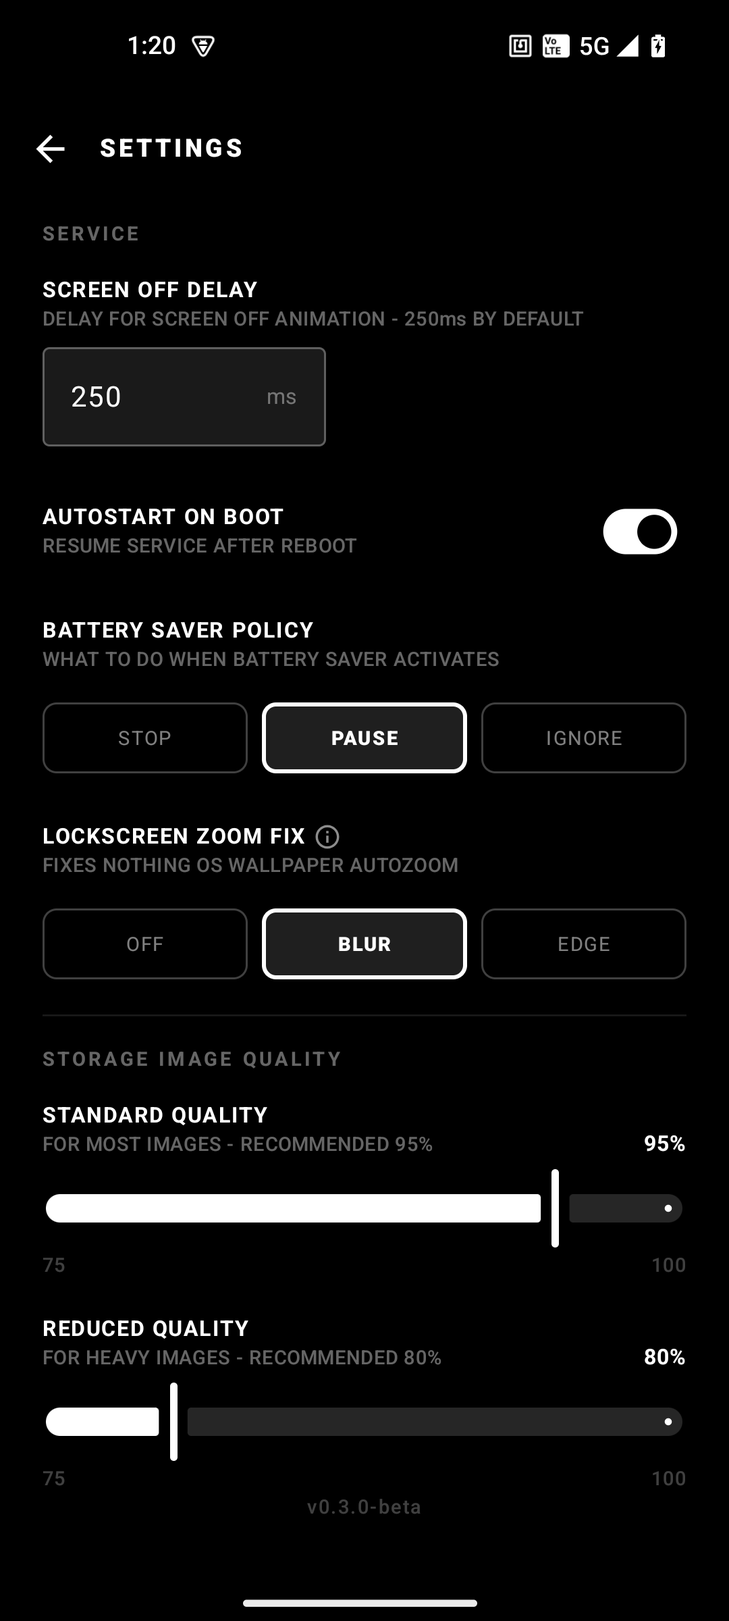
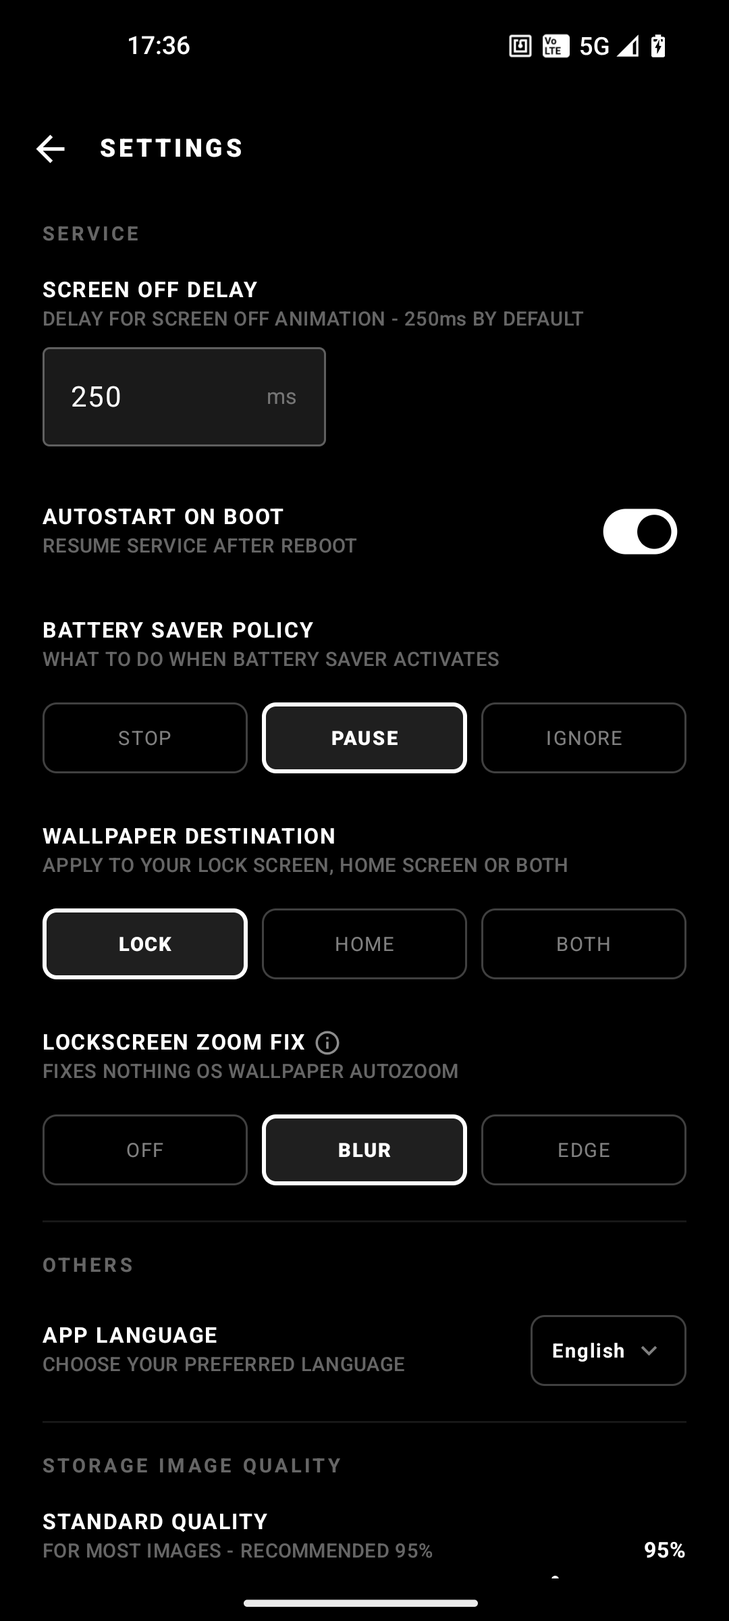
v0.3.2 - Wallpaper destination targeting, Spanish support, and reactive architecture stabilization

diff --git a/docs/ARCHITECTURE.md b/docs/ARCHITECTURE.md
@@ -2,17 +2,17 @@
 
 ## Overview
 
-**Version:** v0.3.1-beta
+**Version:** v0.3.2-beta
 
 The app architecture is a pragmatic Android 13+ implementation centered on seven pieces:
 
 1. A **single-activity Compose UI** with Navigation Compose routes for the main dashboard, collections, collection image gallery, wallpaper editor, and settings.
 2. **Hilt dependency injection** for app-scoped services, Room access, ViewModels, receivers, and the foreground service.
 3. A **data layer** with Room and `WallpaperRepository` for collections/rotation, plus `AppDataStore` for settings flows.
-4. A **service state manager** (`ServiceStateManager` + `ServiceLifecycleTracker`) that resolves and publishes service state.
+4. A **service state manager** (`ServiceStateManager` + `ServiceLifecycleTracker`) that resolves and publishes a single reactive service state.
 5. A **foreground service + broadcast receivers** layer that reacts to screen-off, Battery Saver, and boot events.
-6. A lightweight **image-processing pipeline** that prepares the next lock-screen wallpaper ahead of time, including lockscreen zoom fix padding and default wallpaper application.
-7. A **per-image editing pipeline** that renders cropped/zoomed wallpapers from the original source and persists edit parameters in Room.
+6. A lightweight **image-processing pipeline** that prepares the next wallpaper ahead of time, including lockscreen zoom fix padding and configurable-destination application.
+7. A **per-image editing pipeline** that renders cropped/zoomed wallpapers on-the-fly from the original source, using edit parameters persisted in Room.
 
 ---
 
@@ -23,36 +23,38 @@ com.ninecsdev.wallpaperchanger/
 |-- WallpaperApplication.kt          # @HiltAndroidApp application entry point
 |-- data/
 |   |-- local/
-|   |   |-- AppDatabase.kt           # Room database (v3) and migrations
+|   |   |-- AppDatabase.kt           # Room database (v4) and migrations
 |   |   |-- AppDataStore.kt          # Preferences DataStore wrapper for app flags/settings
 |   |   |-- Converters.kt            # Room converters for Uri and enums
+|   |   |-- DeviceDefaults.kt        # Per-device (Build.DEVICE) screen-off delay defaults
 |   |   `-- WallpaperDao.kt          # Collection and image queries
-|   |-- ServiceStateManager.kt       # Service-state resolution for UI/tile consumers
-|   `-- WallpaperRepository.kt       # Collection/image CRUD and rotation coordination
+|   |-- ServiceLifecycleTracker.kt   # Tracks WallpaperService liveness for state resolution
+|   |-- ServiceStateManager.kt       # Single derived service-state flow for UI/tile consumers
+|   `-- WallpaperRepository.kt       # Collection/image CRUD, rotation coordination, folder-sync diffing
 |-- di/
 |   `-- AppModule.kt                 # Hilt providers for Room database and DAO
 |-- logic/
-|   |-- BufferManager.kt             # Downsample, crop, zoom fix, and atomically write next wallpaper buffer
+|   |-- BufferManager.kt             # Downsample, crop, on-the-fly edit transform, zoom fix, atomic buffer write
 |   |-- ImageInternalizer.kt         # Copy manual selections into app-private storage
 |   |-- ImageProcessingUtils.kt      # Shared decode, resize, and compression helpers
-|   |-- WallpaperApplier.kt          # Applies buffer/default wallpapers
-|   |-- RotationEngine.kt            # Shuffle-cycle state machine and buffer refill orchestration
-|   `-- WallpaperEditRenderer.kt     # Renders edited wallpapers from original source with zoom/offset transforms
+|   |-- WallpaperApplier.kt          # Applies buffer/default wallpapers to the configured destination(s)
+|   `-- RotationEngine.kt            # Reactive shuffle-cycle state machine and buffer refill orchestration
 |-- model/
-|   |-- BatterySaverPolicy.kt        # STOP | PAUSE | IGNORE
-|   |-- CollectionSortOrder.kt       # NAME | LAST_USED | DATE_CREATED
-|   |-- CollectionType.kt            # FOLDER | MANUAL
-|   |-- CropRule.kt                  # CENTER | LEFT | RIGHT | FIT
-|   |-- LockscreenZoomFix.kt         # OFF | BLURRED | EDGE
-|   |-- RotationFrequency.kt         # PER_LOCK | HOURLY | PER_DAY
-|   |-- ServiceState.kt              # Running, Loading, Stopped, Paused, Disabled states
+|   |-- ServiceState.kt              # Running, Loading, Stopping, Stopped, Paused, Disabled* states
 |   |-- WallpaperCollection.kt       # Room entity for collection metadata
-|   `-- WallpaperImage.kt            # Room entity for images
+|   |-- WallpaperImage.kt            # Room entity for images; embeds EditParams
+|   `-- enums/
+|       |-- BatterySaverPolicy.kt    # STOP | PAUSE | IGNORE
+|       |-- CollectionSortOrder.kt   # NAME | LAST_USED | DATE_CREATED
+|       |-- CollectionType.kt        # FOLDER | MANUAL
+|       |-- CropRule.kt              # CENTER | LEFT | RIGHT | FIT
+|       |-- LockscreenZoomFix.kt     # OFF | BLURRED | EDGE
+|       |-- RotationFrequency.kt     # PER_LOCK | HOURLY | PER_DAY
+|       `-- WallpaperDestination.kt  # LOCK | HOME | BOTH
 |-- service/
 |   |-- BootReceiver.kt              # Restarts the service after reboot when appropriate
-|   |-- NotificationHelper.kt        # Builds and updates foreground-service notifications
+|   |-- NotificationHelper.kt        # Builds/updates the foreground notification
 |   |-- ScreenOffReceiver.kt         # Applies the prepared wallpaper on screen-off
-|   |-- ServiceLifecycleTracker.kt   # Tracks WallpaperService liveness for state resolution
 |   |-- WallpaperService.kt          # Foreground engine and notification owner
 |   `-- WallpaperTileService.kt      # Quick Settings tile entry point
 `-- ui/
@@ -62,8 +64,8 @@ com.ninecsdev.wallpaperchanger/
     |-- collectionscreen/            # Collection list, create/edit/delete flows, sorting, previews
     |-- collectionimagescreen/       # Collection wallpaper grid, selection mode, preview overlay, edited badge
     |-- walleditscreen/              # Full-screen wallpaper editor with gesture controls and precision sliders
-    |-- settingsscreen/              # Service, boot, battery, zoom fix, and image-quality settings
-    |-- components/                  # Shared Compose components (dialogs, buttons, etc.)
+    |-- settingsscreen/              # Service, boot, battery, destination, zoom fix, language, and quality settings
+    |-- components/                  # Shared Compose components (dialogs, buttons, safeClick debouncing, etc.)
     `-- theme/                       # App palette and Compose theme
 ```
 
@@ -78,6 +80,7 @@ com.ninecsdev.wallpaperchanger/
 - `MainViewModel`, `CollectionViewModel`, `CollectionImageViewModel`, `WallpaperEditViewModel`, and `SettingsViewModel` are plain `ViewModel` classes annotated with `@HiltViewModel`.
 - Compose state is collected through `collectAsStateWithLifecycle()` inside the navigation graph.
 - Settings and service state are injected directly through `AppDataStore` and `ServiceStateManager` instead of via the repository.
+- Navigation buttons on the main screen are protected by a `safeClick` debouncing utility so rapid repeated taps can't stack duplicate screens on the back stack.
 
 ### 2. Collection Creation
 
@@ -85,6 +88,7 @@ com.ninecsdev.wallpaperchanger/
 - **Manual collections** internalize selected photos into `files/internal_wallpapers` so they remain accessible even if the external picker URI becomes unavailable later.
 - Manual-image internalization uses the configured high/low compression quality values, choosing the lower quality for larger source files.
 - The first collection created automatically becomes active.
+- Folder sync diffs the current disk snapshot against Room in Kotlin (not SQL) and applies the stale-delete/new-insert in **chunks** (900 rows) inside a single `withTransaction` block, so very large folders can't hit SQLite's per-statement variable-binding limit and a scan failure can no longer wipe out an existing collection.
 
 ### 3. Collection Image Gallery
 
@@ -96,6 +100,7 @@ com.ninecsdev.wallpaperchanger/
 - A **FAB** allows adding new wallpapers to the collection via the system photo picker.
 - An **empty state** is shown when a collection has no wallpapers, nudging the user to add images.
 - Wallpapers with custom edits display an **edited badge** (pencil icon) on their thumbnail and in the preview overlay.
+- The grid, counts, and previews update live as wallpapers are added or removed, without needing to reopen the screen.
 
 ### 4. Wallpaper Editor
 
@@ -104,27 +109,26 @@ com.ninecsdev.wallpaperchanger/
 - The full-screen canvas shows the wallpaper with **pinch-to-zoom and drag gestures** for interactive positioning.
 - A collapsible bottom panel (`ControlsPanel`) provides **precision sliders** for zoom (0.5x–5x), X offset (-1..1), and Y offset (-1..1).
 - The top bar includes **undo/reset** actions and a **fit-to-height** shortcut for quick framing.
-- On save, `WallpaperEditRenderer` always renders from the **original** image URI to avoid quality degradation across repeated edits. The rendered result is saved as a high-quality WebP in `files/edited_wallpapers/`.
-- Edit parameters (`editZoom`, `editOffsetX`, `editOffsetY`) and the `editedUri` are persisted in Room via a database migration (v2→v3).
-- Resetting an edit deletes the rendered file and clears all edit parameters, reverting to the original image.
-- After saving or resetting, the rotation engine is reloaded and the disk buffer refilled if the wallpaper belongs to the active collection.
+- Edit parameters (`zoom`, `offsetX`, `offsetY`) are bundled into a single `@Embedded EditParams` value class on `WallpaperImage` instead of three separate nullable fields, encoding the "all present or all null" invariant in the type system. There is **no separate rendered edited-image file** — `BufferManager` applies the transform on-the-fly (bypassing the collection's `CropRule` whenever edit params are present) each time it prepares the next wallpaper, always reading from the **original** image URI to avoid cumulative quality degradation.
+- Resetting an edit clears the embedded edit params, reverting to the collection's default crop behavior.
+- After saving or resetting, the rotation engine reacts reactively (see below) and refills the disk buffer if the wallpaper belongs to the active collection.
 
 ### 5. Service Startup
 
-- `WallpaperService` enters the foreground with a low-importance notification.
+- `WallpaperService` enters the foreground with a low-importance notification; tapping the notification opens `MainActivity`.
 - Hilt injects the repository, rotation engine, and service state helpers into the service.
-- `ServiceLifecycleTracker` marks the service alive/dead, and `ServiceStateManager` persists and broadcasts state.
-- The repository loads the active collection into an in-memory shuffled list called the magazine.
-- `BufferManager` prepares the next wallpaper by preferring the `editedUri` (if available), downsampling, applying the crop rule, optionally adding lockscreen zoom fix padding, and atomically renaming a temporary WebP file into the active buffer.
+- `ServiceLifecycleTracker` (in `data/`) marks the service alive/dead, and `ServiceStateManager` resolves and exposes a single `serviceState: StateFlow<ServiceState>`.
+- `RotationEngine.start(scope)` subscribes to `WallpaperRepository.activeCollectionImagesFlow()` and builds the in-memory shuffled "magazine" reactively — the repository no longer needs to manually poke the engine after every database write.
+- `BufferManager` prepares the next wallpaper by applying the on-the-fly edit transform (if present) or the collection's crop rule, downsampling, optionally adding lockscreen zoom fix padding, and atomically renaming a temporary WebP file into the active buffer.
 
 ### 6. Screen-Off Rotation
 
 - `ScreenOffReceiver` listens for `Intent.ACTION_SCREEN_OFF`.
 - It uses an `AtomicBoolean` guard so repeated power-button taps cannot trigger overlapping work.
 - The receiver enforces the collection's `RotationFrequency` before applying a change.
-- `WallpaperApplier` streams the prepared buffer to the lock screen; `RotationEngine` retries failed images and can fall back from edited to original sources.
+- `WallpaperApplier` streams the prepared buffer to whichever surface(s) the `WallpaperDestination` setting targets — lock screen, home screen, or both — via `WallpaperManager.setStream()`; `RotationEngine` retries failed images and can fall back from edited to original sources.
 - If the buffer is applied successfully, the repository records `lastWallpaperChangeAt` and prepares the next wallpaper immediately.
-- The configurable screen-off delay is persisted in `AppDataStore` and read directly from DataStore.
+- The configurable screen-off delay is persisted in `AppDataStore` and read directly from DataStore. New installs default to a **device-appropriate** value (`DeviceDefaults`, keyed by `Build.DEVICE` codename) instead of one fixed delay for every phone, fixing sluggish/delayed transitions reported on some models.
 
 ### 7. Battery Saver Behavior
 
@@ -133,19 +137,21 @@ com.ninecsdev.wallpaperchanger/
   - `STOP`: stop the service entirely.
   - `PAUSE`: unregister the screen-off receiver, keep the service alive, and resume automatically when Battery Saver ends.
   - `IGNORE`: keep cycling normally.
-- Notifications and repository service state are updated after each transition.
+- Notifications and resolved service state update after each transition.
 
 ### 8. Boot Restore and Tile Control
 
 - `BootReceiver` checks whether the app was previously marked as running and whether boot-start is enabled.
-- `WallpaperTileService` mirrors service state in Quick Settings and can start or stop the foreground service directly.
+- `WallpaperTileService` mirrors the single resolved `serviceState` in Quick Settings and can start or stop the foreground service directly, including stopping a service that's currently paused by Battery Saver.
 
 ### 9. Settings
 
-- `SettingsScreen` exposes screen-off delay, start-on-boot, Battery Saver policy, lockscreen zoom fix, and manual-image compression quality controls.
+- `SettingsScreen` exposes screen-off delay, start-on-boot, Battery Saver policy, wallpaper destination, lockscreen zoom fix, app language, and manual-image compression quality controls.
 - Settings are stored in Preferences DataStore through `AppDataStore` and surfaced by `SettingsViewModel` as a single `SettingsUiState`.
 - DataStore reads use a shared safe flow that falls back to defaults on IO/corruption errors.
+- The **wallpaper destination** setting (LOCK / HOME / BOTH) determines which `WallpaperManager` flag(s) `WallpaperApplier` targets when streaming the buffer or the default wallpaper.
 - The **lockscreen zoom fix** setting (OFF / BLURRED / EDGE) is applied by `BufferManager` during wallpaper preparation, adding padding around the rendered image so the OS zoom consumes padding instead of cropping the wallpaper.
+- The **language** setting is backed by a per-app locale (`AndroidManifest` `locales_config.xml` lists `en`/`es`); `LanguageSelector` lets the user override the system locale from inside the app, and the choice is persisted via `AppDataStore`.
 
 ---
 
@@ -157,12 +163,11 @@ com.ninecsdev.wallpaperchanger/
 |---|---|
 | Collections and wallpapers | Room |
 | Active collection metadata | Room fields on `WallpaperCollection` |
-| Per-image edit parameters | Room fields on `WallpaperImage` (`editedUri`, `editZoom`, `editOffsetX`, `editOffsetY`) |
+| Per-image edit parameters | Single `@Embedded EditParams?` (`zoom`, `offsetX`, `offsetY`) on `WallpaperImage` |
 | Default wallpaper, revert toggle, boot toggle, soft running flag | Preferences DataStore via `AppDataStore` |
-| Screen-off delay, compression quality, Battery Saver policy, lockscreen zoom fix | Preferences DataStore via `AppDataStore` |
+| Screen-off delay, compression quality, Battery Saver policy, lockscreen zoom fix, wallpaper destination, language | Preferences DataStore via `AppDataStore` |
 | Prepared next wallpaper | WebP file in `cacheDir` |
 | Manual collection source images | App-private files in `files/internal_wallpapers` |
-| Rendered edited wallpapers | App-private files in `files/edited_wallpapers` |
 
 ### UI State
 
@@ -171,7 +176,7 @@ com.ninecsdev.wallpaperchanger/
 | Main dashboard | `MainViewModel` + `MainUiState` | Combines repository flows reactively; navigation is handled by `NavController` |
 | Collection screen | `CollectionViewModel` + `CollectionUiState` | Handles preview loading, sorting, modal state, delete confirmation, and pending picker results |
 | Collection images | `CollectionImageViewModel` + `CollectionImageUiState` | Observes images reactively, manages selection mode, preview state, and add/delete operations |
-| Wallpaper editor | `WallpaperEditViewModel` + `WallpaperEditUiState` | Loads wallpaper by ID, coordinates save/reset with renderer and repository |
+| Wallpaper editor | `WallpaperEditViewModel` + `WallpaperEditUiState` | Loads wallpaper by ID, coordinates save/reset with the repository |
 | Settings screen | `SettingsViewModel` + `SettingsUiState` | Combines DataStore-backed setting flows and app version metadata |
 
 ### Service State Model
@@ -180,12 +185,15 @@ com.ninecsdev.wallpaperchanger/
 
 - `Running`
 - `Loading`
+- `Stopping`
 - `Stopped`
 - `Paused`
 - `DisabledPowerSave`
 - `DisabledNoCollection`
 
-`ServiceStateManager` publishes both a `serviceStateFlow` and a lightweight `serviceEvent` `SharedFlow` so the UI and tile can refresh when service-side state changes. It resolves state using the DataStore running flag, live service liveness from `ServiceLifecycleTracker`, power-save mode, and active-collection availability.
+`Stopping` exists specifically to prevent a stop→start race condition (starting the service while a previous instance was still stopping could otherwise leave the app in a permanent "Initializing" state).
+
+`ServiceStateManager` publishes a **single derived** `serviceState: StateFlow<ServiceState>`, built via `combine(...)` over the raw in-memory lifecycle intent, the persisted running flag, live service liveness (`ServiceLifecycleTracker`), power-save mode, and active-collection availability, resolved by a pure `resolve()` function. This replaced three overlapping mechanisms from earlier versions (a raw state flow, a "something changed" ping `SharedFlow`, and a side-effecting suspend getter) that required every consumer to poll correctly; the app UI, `WallpaperTileService`, and the main dashboard all now just collect the one flow.
 
 ---
 
@@ -194,38 +202,54 @@ com.ninecsdev.wallpaperchanger/
 | Concern | Current approach | Why it exists |
 |---|---|---|
 | Dependency wiring | Hilt + constructor injection for app services and ViewModels | Removes manual startup initialization and improves testability |
-| Service/UI synchronization | `ServiceStateManager` with `SharedFlow<Unit>` refresh events | Centralizes state resolution without local broadcasts |
-| Rotation engine | In-memory shuffled magazine + pointer | Guarantees full-cycle playback before reshuffle |
-| Folder sync | DAO diffing against the current disk snapshot | Prevents duplicate inserts and preserves manual additions |
-| Wallpaper application | `WallpaperApplier` streams the buffer or default image into `WallpaperManager.setStream()` | Avoids decoding a full bitmap at apply time and keeps zoom-fix consistent |
+| Service/UI synchronization | Single derived `ServiceStateManager.serviceState` flow | Centralizes state resolution without polling contracts or manual refresh triggers |
+| Rotation engine | Reactive in-memory shuffled magazine, driven by `WallpaperRepository.activeCollectionImagesFlow()` | Guarantees full-cycle playback before reshuffle and removes the DB→engine poke, closing races around concurrent screen-off events and edits |
+| Folder sync | Diffed in Kotlin against the current disk snapshot, applied in chunked transactions | Prevents duplicate inserts, preserves manual additions, and avoids SQLite's bind-variable limit on very large folders |
+| Wallpaper application | `WallpaperApplier` streams the buffer or default image into `WallpaperManager.setStream()` for the configured destination(s) | Avoids decoding a full bitmap at apply time and keeps zoom-fix and destination targeting consistent |
 | Buffer writes | Temp file then rename | Prevents half-written wallpaper buffers |
-| Buffer source selection | Prefer `editedUri` over original `uri` with fallback | Reverts to originals when edited sources fail to load |
 | Manual image storage | Internal WebP copies with configurable compression | Keeps user-picked images available and controls storage size |
-| Edited image storage | Separate `files/edited_wallpapers` directory with high-quality WebP | Keeps edits independent from source images, avoids quality loss |
-| Edit rendering | Always render from original URI | Prevents cumulative quality degradation across repeated edits |
+| Edit persistence | Single embedded `EditParams` value, always rendered on-the-fly from the original URI | Encodes the all-or-nothing invariant in the type system and prevents cumulative quality degradation across repeated edits |
 | Lockscreen zoom fix | Padding with blurred or edge-stretched borders | Counters Nothing OS auto-zoom without scaling the wallpaper down |
+| Screen-off delay defaults | Per-device default keyed by `Build.DEVICE` codename (`DeviceDefaults`) | A single fixed delay felt sluggish on some models; codenames are stable across OS updates/regions, unlike `Build.MODEL` |
 | Failure handling | Retry failed images, then purge after repeated failures | Keeps the service alive even with invalid sources |
-| Concurrency | Coroutines + `SupervisorJob` + `AtomicBoolean` guard | Isolates failures and avoids duplicate screen-off work |
+| Concurrency | Coroutines + `SupervisorJob` + a single `Mutex` guarding rotation state + `AtomicBoolean` screen-off guard | Isolates failures and prevents a screen-off refill and a reactive reload from interleaving |
 | Gallery navigation | `SavedStateHandle` for route arguments | Wallpaper ID and collection ID pass safely through navigation |
+| UI click handling | `safeClick` debouncing utility on navigation-triggering buttons | Prevents duplicate stacked screens from rapid repeated taps |
 
 ---
 
-## What v0.3.1-beta Adds or Stabilizes
+## What v0.3.2-beta Adds or Stabilizes
 
-- **ServiceStateManager + ServiceLifecycleTracker** split service state from the repository and make liveness explicit for UI/tile consumers.
-- **AppDataStore safe reads** add a shared catch fallback for IO/corruption, defaulting to safe values.
-- **WallpaperApplier** centralizes buffer/default wallpaper application so the lockscreen zoom fix applies consistently.
-- **Rotation resiliency** adds edited-source fallback, retry counts before purge, and internal file cleanup on failures.
-- **Wallpaper editor upgrades** add undo/change tracking, fit-to-height framing, sub-1x zoom, and refined pan constraints.
-- **Delete confirmation overlay** is reused for collection and image deletion, adding confirmation to batch wallpaper removal.
+- **Wallpaper destination setting** lets the rotation target the lock screen, home screen, or both, instead of being lock-screen-only.
+- **Language selection** adds a full Spanish translation alongside English, with an in-app override independent of the system locale.
+- **Device-appropriate screen-off delay defaults** replace one fixed delay for every phone.
+- **Click debouncing** (`safeClick`) prevents duplicate stacked screens from rapid repeated taps on gallery/settings navigation.
+- **Reactive service state** (`ServiceStateManager.serviceState`) fixes a stuck "Setup needed" status after deleting and recreating a list, and replaces three overlapping state-sync mechanisms with one derived flow.
+- **Reactive `RotationEngine`** observes collection changes through Room instead of being manually poked after every database write, closing races around concurrent screen-off events and edits.
+- **Chunked, transactional folder sync** fixes a data-loss bug where a transient scan error could wipe out an entire folder-based collection, and keeps large folders under SQLite's bind-variable limit.
+- **Stop→start race fix** (`Stopping` state) prevents the service from getting stuck in "Initializing" when started while a previous instance was still stopping.
+- **Bounded default-wallpaper decode** avoids an out-of-memory risk when restoring a very large default wallpaper image.
+- **Consolidated per-image edit model** (`EditParams`) replaces three separate nullable fields with one embedded value.
+- **Notification tap-to-open** makes the persistent notification open the app instead of doing nothing.
 
-Previous v0.3.0-beta baseline remains:
-- Navigation Compose is the active baseline with explicit route constants, transitions, and edge-swipe navigation behavior.
-- Collection image gallery and wallpaper editor are part of the core navigation graph and use lifecycle-aware collection.
-- Hilt provides application-level dependencies, plain ViewModels, receivers, and services.
-- Room v3 persists per-image edit data (`editedUri`, `editZoom`, `editOffsetX`, `editOffsetY`).
-- Preferences DataStore persists app flags and settings with one-time migration from legacy SharedPreferences.
-- Rotation and image-processing responsibilities are split into dedicated helpers (`RotationEngine`, `ImageProcessingUtils`, `BufferManager`, and `NotificationHelper`).
+Previous v0.3.1-beta baseline remains: Navigation Compose with five routes, Hilt-provided app-level dependencies and plain ViewModels, on-the-fly edit rendering, Room-backed collections/images, and DataStore-backed settings.
+
+---
+
+## Tech Stack
+
+| Category      | Library / API                       |
+|---------------|--------------------------------------|
+| Language      | Kotlin 2.3 (JVM 17)                  |
+| UI            | Jetpack Compose + Material 3         |
+| Image loading | Coil 2.7                             |
+| Database      | Room 2.8 (KSP)                       |
+| Preferences   | Jetpack Preferences DataStore        |
+| DI            | Hilt                                 |
+| Async         | Kotlin Coroutines + `SupervisorJob`  |
+| Lifecycle     | ViewModel + StateFlow / SharedFlow   |
+| Min SDK       | 33 (Android 13)                      |
+| Target SDK    | 36 (Android 16)                      |
 
 ---
 
@@ -235,6 +259,6 @@ These are intentional current limitations, not documentation mistakes:
 
 - Navigation still uses string route constants rather than typed routes.
 - The repository remains a concrete app-scoped coordinator rather than an interface-backed domain boundary.
-- Settings directly accesed from the `AppDataStore` rather than a use-case or repository.
-- File system scanning logic lives in the repository rather than a dedicated collaborator.
+- Settings are read directly from `AppDataStore` rather than through a use-case or repository.
 - The collection image screen's `BackHandler` layering for selection/preview/navigation could be improved.
+- There is no automated test coverage beyond the default template tests; DataStore defaults/migration, `BatterySaverPolicy` transitions, boot restore, rotation frequency gating, and the wallpaper edit save/reset lifecycle are documented backlog items, not something already in place.

diff --git a/README.md b/README.md
@@ -4,14 +4,14 @@
   <h1>Wallpaper Changer for Nothing OS</h1>
 
   <p align="center">
-    <img src="https://img.shields.io/badge/Status-v0.3.1--beta-blue.svg" alt="Status">
+    <img src="https://img.shields.io/badge/Status-v0.3.2--beta-blue.svg" alt="Status">
     <img src="https://img.shields.io/badge/Android-13%2B-green.svg" alt="Android 13+">
-    <img src="https://img.shields.io/badge/Kotlin-2.1-purple.svg" alt="Kotlin">
+    <img src="https://img.shields.io/badge/Kotlin-2.3-purple.svg" alt="Kotlin">
     <img src="https://img.shields.io/badge/Jetpack%20Compose-Material%203-teal.svg" alt="Compose">
   </p>
 
   <p>
-    <b>A lightweight lock screen wallpaper changer.<br>Built by a Nothing user, for Nothing users.</b>
+    <b>A lightweight wallpaper changer for your lock screen, home screen, or both.<br>Built by a Nothing user, for Nothing users.</b>
   </p>
   <p>
     <sub>Disclaimer: This is an independent, community-made tool. Not affiliated with or endorsed by Nothing Technology Limited.</sub>
@@ -31,6 +31,8 @@ There weren't many solutions on the Play Store and the ones I found were either 
 ##  Key Features
 
 - **Instant Wallpaper Swap:** Each wallpaper is pre-processed and ready to go before you lock your phone resulting in no lag or  no loading screens. *(Achieved via a disk-buffered pipeline: downsample → crop → WebP.)*
+- **Configurable Wallpaper Destination:** Apply the rotation to the lock screen, the home screen, or both.
+- **Language Selection:** Switch the app's language from Settings. English and Spanish are fully supported today.
 - **Wallpaper Collections/Lists:** Organize wallpapers in two ways:
     - **Folder-based:** Point the app at a folder on your device and it picks up all the images inside, with re-sync on demand.
     - **Manual:** Hand-pick individual photos; they're safely copied into the app's private storage so they're always available.
@@ -41,7 +43,7 @@ There weren't many solutions on the Play Store and the ones I found were either 
 - **Flexible Cropping:** Choose how images fit your screen per collection: center, left-aligned, right-aligned, or fit-to-screen.
 - **Lockscreen Zoom Fix:** Counteracts the auto-zoom some phones (especially Nothing OS) apply to lock screen wallpapers. Choose between blurred-edge or sharp-edge padding modes, or turn it off. Applied to both rotating and default wallpapers.
 - **Rotation Timer Modes:** Configure each collection to rotate on every lock, every 1 hour, or once per day.
-- **Settings Screen:** Tune the screen-off debounce delay, boot behavior, manual-image compression quality, Battery Saver behavior, and lockscreen zoom fix from inside the app.
+- **Settings Screen:** Tune the screen-off debounce delay (with a device-appropriate default out of the box), boot behavior, wallpaper destination, manual-image compression quality, Battery Saver behavior, lockscreen zoom fix, and app language from inside the app.
 - **Quick Settings Tile:** Start, stop, or check status right from the notification shade letting you control it while doing something else.
 - **Default Wallpaper Fallback:** Pick a fallback lock screen image that's automatically restored when the service stops or pauses.
 - **Survives Reboots:** If the service was running before a restart, it picks right back up.
@@ -111,7 +113,7 @@ No. The app doesn't run on a timer or poll in the background, it simply waits fo
 <details>
 <summary><b>Why is there a permanent notification?</b></summary>
 
-Android requires any app doing background work to show a notification, it's a system rule, not a design choice. The notification is as minimal as possible and lets you see the service is running and which collection is active.
+Android requires any app doing background work to show a notification, it's a system rule, not a design choice. The notification is as minimal as possible, lets you see the service is running and which collection is active, and tapping it opens the app.
 </details>
 
 <details>
@@ -129,7 +131,7 @@ While in Nothing OS this shouldn't happen, other phone manufacturers (Xiaomi, Sa
 <details>
 <summary><b>Does this change my home screen wallpaper too?</b></summary>
 
-Currently, the app only changes the **lock screen** wallpaper. Home screen support may be added in a future update.
+It can. Go to Settings and choose whether the rotation applies to the lock screen, the home screen, or both. Lock screen only is the default.
 </details>
 
 <details>
@@ -178,8 +180,8 @@ The current implementation uses Hilt-injected app-level dependencies, plain `@Hi
 1. **User creates a collection** (folder or manual) → images are stored in Room.
 2. **User browses and edits wallpapers** → the collection image gallery shows all images in a grid; tapping opens a full-screen preview with swipe-through; the per-image editor lets you crop and position with gestures and precision sliders.
 3. **User presses Start** → `WallpaperService` starts as a foreground service, loads & shuffles the active collection into an in-memory magazine, and pre-processes the first wallpaper into a WebP disk buffer. Edited images are preferred over originals.
-4. **Screen turns off** → `ScreenOffReceiver` fires, streams the buffer to `WallpaperManager.setStream()` on the lock screen flag, then triggers the repository to prepare the next image.
-5. **Battery Saver ON** -> The configured policy is applied: stop the service, pause by unregistering the receiver and auto-resume later, or ignore Battery Saver.
+4. **Screen turns off** → `ScreenOffReceiver` fires, streams the buffer to `WallpaperManager.setStream()` on whichever surface(s) the wallpaper destination setting targets (lock screen, home screen, or both), then triggers the repository to prepare the next image.
+5. **Battery Saver ON** → The configured policy is applied: stop the service, pause by unregistering the receiver and auto-resume later, or ignore Battery Saver.
 6. **User presses Stop** → Service stops; if "revert to default" is enabled, the saved default wallpaper is restored (including lockscreen zoom fix if enabled).
 7. **Device reboots** → `BootReceiver` checks persisted state and restarts the service if it was previously active.
 
@@ -189,10 +191,10 @@ The current implementation uses Hilt-injected app-level dependencies, plain `@Hi
 
 | Category      | Library / API                       |
 |---------------|-------------------------------------|
-| Language      | Kotlin 2.1 (JVM 17)                 |
+| Language      | Kotlin 2.3 (JVM 17)                 |
 | UI            | Jetpack Compose + Material 3        |
 | Image loading | Coil 2.7                            |
-| Database      | Room 2.7 (KSP)                      |
+| Database      | Room 2.8 (KSP)                      |
 | Preferences   | Jetpack Preferences DataStore       |
 | DI            | Hilt                                |
 | Async         | Kotlin Coroutines + `SupervisorJob` |
@@ -224,9 +226,9 @@ This is my first native Android project, built while actively learning about bac
 
 ## Status
 
-**v0.3.1-beta** focuses on polish and resilience.
+**v0.3.2-beta** is a customization and reliability release.
 
-It adds editor quality-of-life (undo, fit-to-height, sub-1x zoom), applies the lockscreen zoom fix to the default wallpaper, strengthens rotation self-healing with retries and fallbacks, and adds confirmation before deleting selected wallpapers.
+It adds per-screen wallpaper destinations (lock screen, home screen, or both) and full Spanish language support, fixes three user-reported bugs (duplicate screens on rapid taps, a stuck "Setup needed" status, and sluggish screen-off timing), and closes out a round of service-layer stability fixes including a data-loss bug in folder sync, a startup crash, and an out-of-memory risk on the default wallpaper.
 
 ---
 
